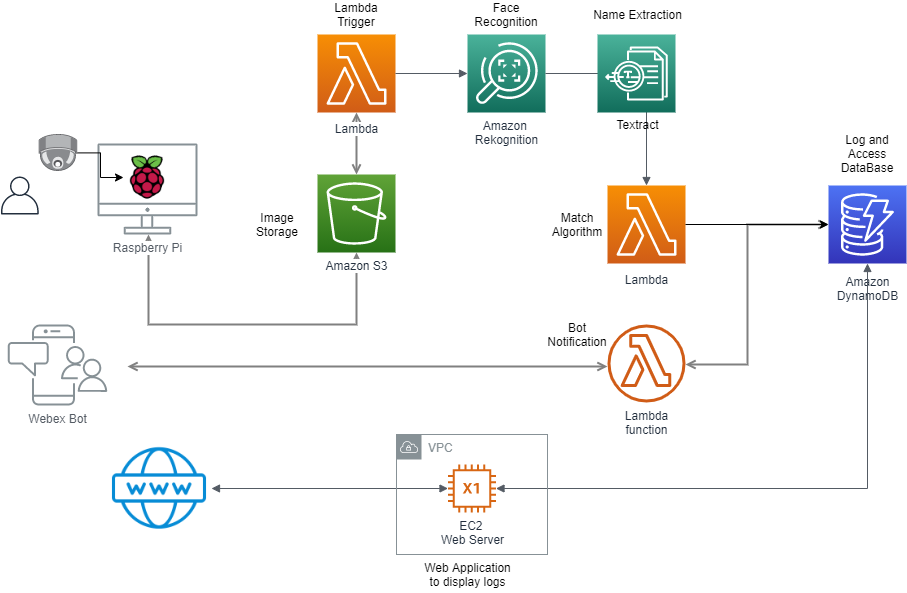
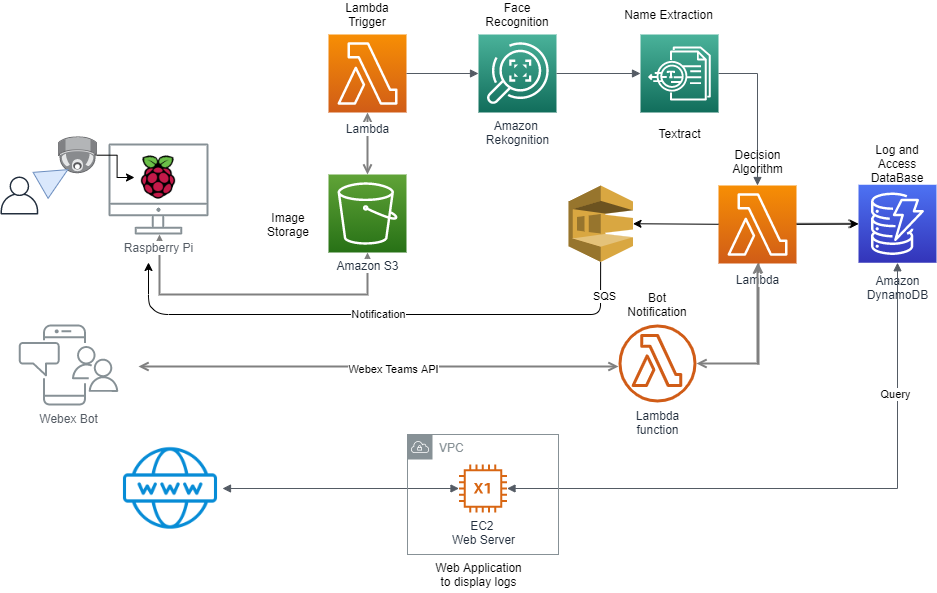
Update

diff --git a/AWS/Lambda_Migration.md b/AWS/Lambda_Migration.md
@@ -1,1 +1,70 @@
-Lambda_Migration.md
+# Lambda migration
+## Description
+
+Lambda Service has a collection of native libraries to use with Python but in our code we are using 'Pandas Library', which is a library that is not included by default in Lambda. To be able to use this library we need to upload the package of files to the lambda container. 
+
+
+###### Update AWS Keys
+1. Locate the following files in this repository:
+	- AmazonKey.py
+	- lambda_function.py 
+	- upload_to_lambda/
+		
+
+2. Inside AmazonKeys.py, replace to yours AWS Account keys and your Webex Teams Bot Token Key.
+```
+bot_token = "ASD23QWQSH&/8EAS..."
+aws_access = "SADGAYJFSKD..."
+aws_secret = "ASDASJDNQWUW2738TWDUNJAKWDN2EWQ..."
+```
+> To generate Webex Teams Bot Token please go back to README.md [Visit Here](https://github.com/MV-Automation/MV_Pandemic_Solution/blob/main/AWS/README.md))
+
+
+###### Update Bucket
+1. Open file *lambda_function.py*
+2. Replace line #39 with the name of the new bucket you had created.
+
+``` python
+38 print(markdown_message)
+39 bot_bucket = 'my_new_bucket_name'
+40 
+```
+3. Finally, replace line #82 with the name of the new bucket you had created.
+
+``` python
+38 mergeFile = archivo
+82 bucket = 'my_new_bucket_name'
+40 
+```
+
+
+###### Modify Webex Team Bot Receipts
+1. Open file *lambda_function.py*
+2. In line #30, you should add at least one receipt for notifcations. 
+	- You could add many mails separte by collon. 
+
+``` python
+29 data_list = data_list
+30 mails_to_send = ['mail@cisco.com', 'mail2@cisco.com']
+31 
+```
+
+###### Update SQS URL
+1. Open file *lambda_function.py*
+2. In line #86, insert the URL generated by Simple Queue Service from AWS.
+
+``` python
+84 access_denied = []
+86 queue_url = ""
+87 
+```
+
+
+###### Uploading Code (ZIP File)
+
+After doing upper steps, please move AmazonKeys.py and lambda_function.py to uploat_to_lamda folder. Then, create a ZIP file with all the folder.
+	- upload_to_lambda/
+		- *AmazonKey.py*
+		- *lambda_function.py*
+
+Furthemore, upload the ZIP file generated to previous lambda function created in Amazon Web Service.

diff --git a/AWS/README.md b/AWS/README.md
@@ -9,11 +9,10 @@ In this module we deploy the Amazon Web Services [AWS](https://aws.amazon.com) a
 2. Obtain aws secret and access key.
 ```
 Example:
-secret_key = 123adsfsaXDAFFEF#r4...
-acces_key = 5423t432ewsACFASF$32rR#Cwcxasf12...
+Secret Key: 123adsfsaXDAFFEF#r4...
+Access Key: 5423t432ewsACFASF$32rR#Cwcxasf12...
 
 ```
-3. Replace you AWS keys in the file AmazonKeys.py and save.
 
 ###### S3 Bucket
 
@@ -45,6 +44,27 @@ Suffix: .jpg
    - Upload ZIP file. (See Migration instruction [Here](https://github.com/MV-Automation/MV_Pandemic_Solution/blob/main/AWS/Lambda_Migration.md))
 
 
+## Webex Teams Bot
+To create a Bot please follow the next steps:
+1. Open the following tutorial [Cisco Devnet](https://developer.webex.com/docs/bots))
+2. Create a Bot
+3. Generate Token and keep it. (*It's a unique token, take care of it*)
+4. Continue migration [Here](https://github.com/MV-Automation/MV_Pandemic_Solution/blob/main/AWS/Lambda_Migration.md))
+
+
+## Simple Queue Service (SQS)
+1. Navigate through SQS Service tab
+2. Create a new STANDARD queue
+3. Use the following configuration:
+	- Visibility Timeout: 30 Seconds
+	- Message retention period: 1 Minute
+	- Maximum message size: 256 Kb
+	- Delivery delay: 0
+	- Receive message wait time: 0
+
+4. Use Basic Access Policy
+5. Collect the url generated for sqs and save it.
+
 
 ## Architecture
 
@@ -52,3 +72,5 @@ This module is executed by self when receives images from a Raspberry Pi Client 
 
 ![Image of Architecture](
 https://github.com/MV-Automation/MV_Pandemic_Solution/blob/main/img/Cloud_Architecture.png)
+
+
